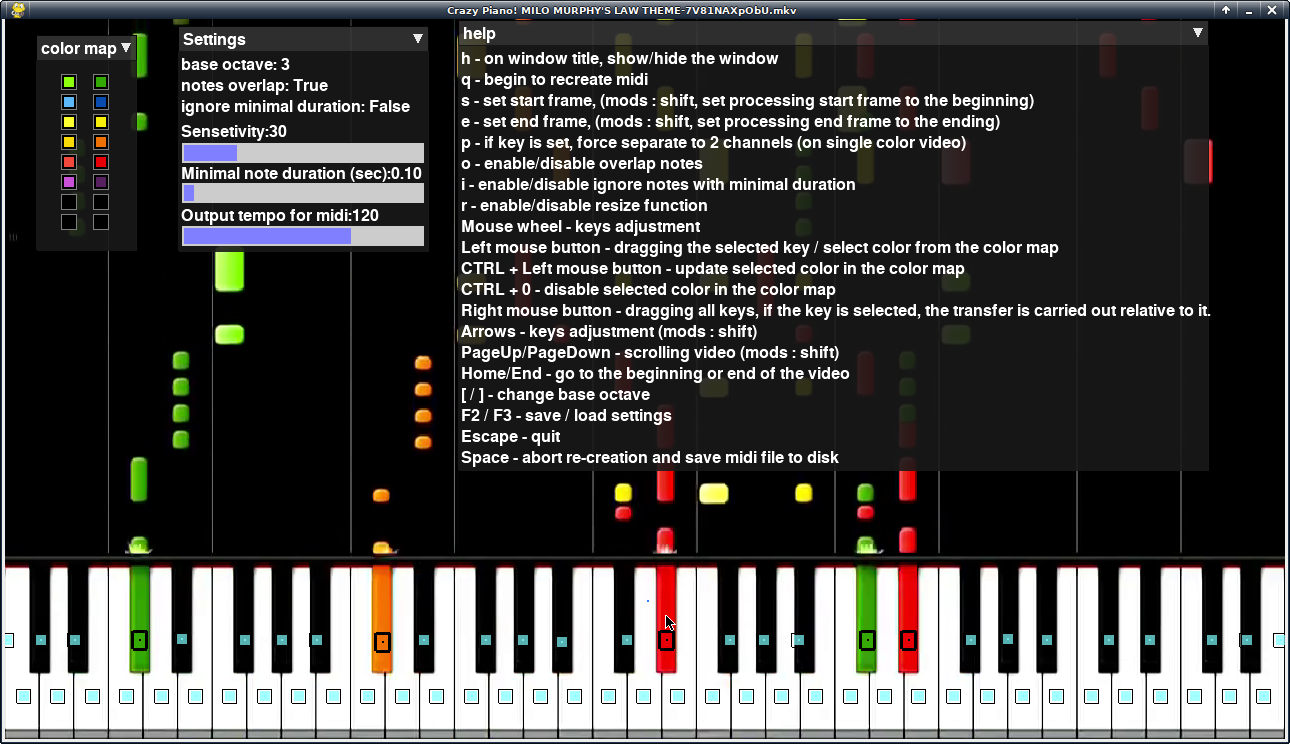
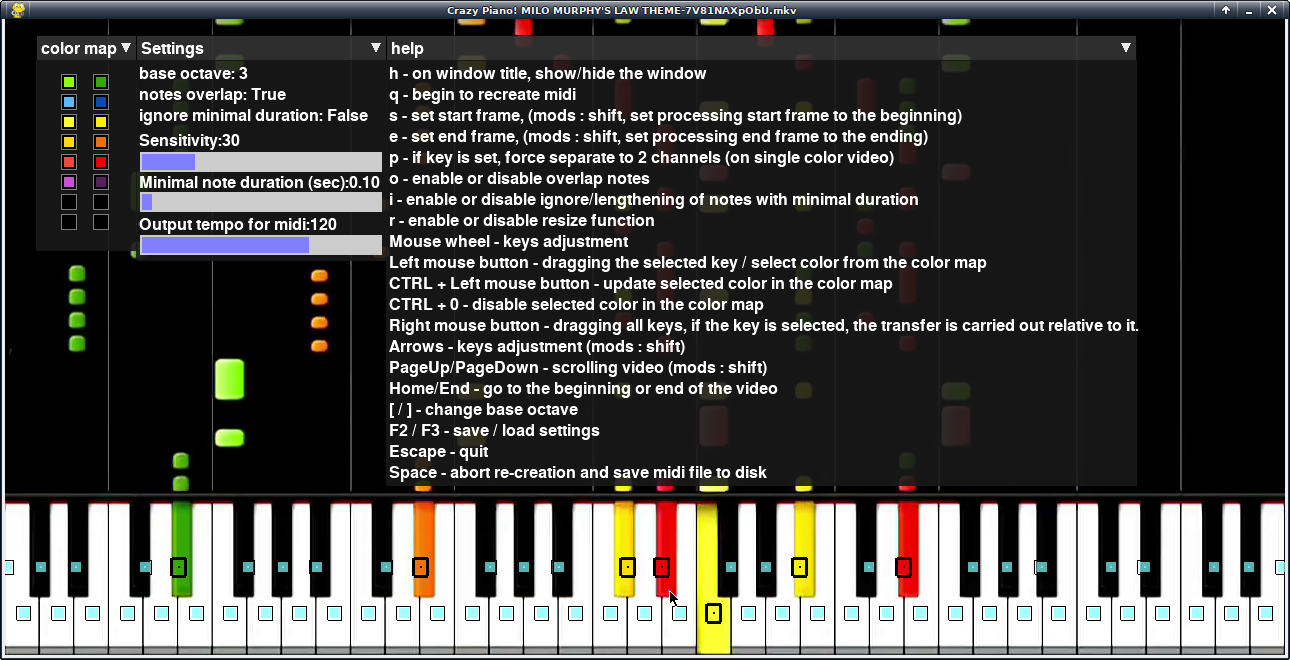
Исправил опечатку Senetivity на Sensitivity

diff --git a/v2m.py b/v2m.py
@@ -1099,7 +1099,7 @@ helpWindow.appendChild(helpWindow_label1);
 settingsWindow_label1 = GLLabel(0,0, "base octave: " + str(octave) + "\nnotes overlap: " + str(notes_overlap) + "\nignore minimal duration: " + str(ignore_minimal_duration));
 settingsWindow.appendChild(settingsWindow_label1);
 
-settingsWindow_label2 = GLLabel(0,67,  "Sensetivity:"+str(keyp_delta)+"\n\nMinimal note duration (sec):"+str(minimal_duration) +   "\n\nOutput tempo for midi:" + str(tempo)  );
+settingsWindow_label2 = GLLabel(0,67,  "Sensitivity:"+str(keyp_delta)+"\n\nMinimal note duration (sec):"+str(minimal_duration) +   "\n\nOutput tempo for midi:" + str(tempo)  );
 settingsWindow.appendChild(settingsWindow_label2);
 
 settingsWindow_slider1 = GLSlider(1,90, 240,18, 0,130,keyp_delta);
@@ -1230,7 +1230,7 @@ def drawframe():
  tempo = int(settingsWindow_slider3.value);
 
  settingsWindow_label1.text = "base octave: " + str(octave) + "\nnotes overlap: " + str(notes_overlap) + "\nignore minimal duration: " + str(ignore_minimal_duration);
- settingsWindow_label2.text = "Sensetivity:"+str(keyp_delta)+"\n\nMinimal note duration (sec):"+format(minimal_duration,'.2f' ) +   "\n\nOutput tempo for midi:" + str(tempo);
+ settingsWindow_label2.text = "Sensitivity:"+str(keyp_delta)+"\n\nMinimal note duration (sec):"+format(minimal_duration,'.2f' ) +   "\n\nOutput tempo for midi:" + str(tempo);
  for i in range(len(keyp_colors)):
      colorBtns[i].color = keyp_colors[i];
 
